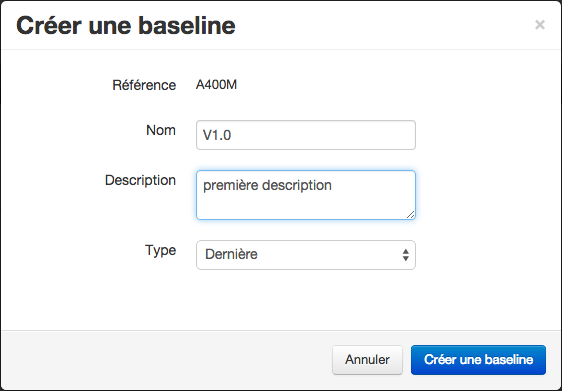
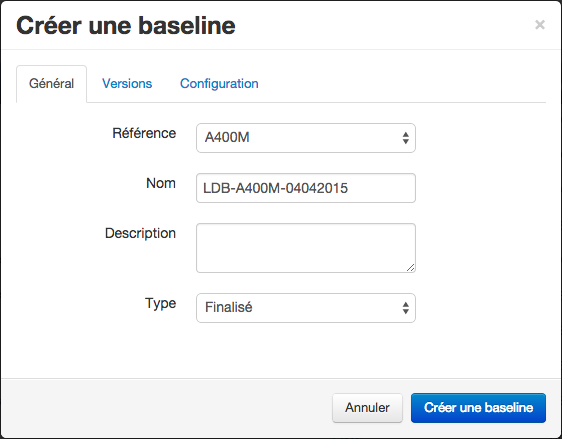
baseline creation

diff --git a/app/_i18n/fr/Documentation_dev.md b/app/_i18n/fr/Documentation_dev.md
@@ -398,10 +398,6 @@ Le numéro d’article est l’élément de tête de votre produit. Celui-ci peu
 
 Le produit créé sera rajouté à la liste des produits. En sélectionnant un produit dans la liste, les actions possibles sont sa suppression et la création d’une ligne de base.
 
-La création d’une ligne de base permet d’enregistrer à un instant donné une version du produit et donc de gérer différentes versions d’un même produit.
-
-{% image /assets/images/documentation/dev/fr/image02.png "Création d’une ligne de base"%}
-
 ##Explorateur produit
 
 La structure produit vous permet de localiser un article donné. Chaque noeud représente un assemblage d'articles, il suffit de l'étendre pour voir de quels articles il est composé. Un clic sur l'article affiche ses propriétés.
@@ -423,6 +419,23 @@ Parmi les actions possibles dans le mode de visualisation en 3D, vous retrouvere
 * La création de marqueurs permettant par exemple de rapporter un dysfonctionnement d’une pièce sur le schéma 3D
 * La création de calques comportant plusieurs marqueurs
 * L'export d'un article pour produire le code html à intégrer dans d’autres pages web (comme YouTube ou Google Maps)
+
+##Création d’une ligne de base
+
+La création d’une ligne de base (ou baseline) permet d’enregistrer à un instant donné une version du produit et donc de gérer différentes versions d’un même produit.
+
+{% image /assets/images/documentation/dev/fr/image02.png "Création d’une baseline"%}
+
+2 types de configuration sont proposés :
+
+* Derniers libérés, pour inclure les dernières itérations libérées de chaque article impliqué
+* Derniers finalisés, pour inclure automatiquement les dernières versions finalisées de chaque article impliqué. Si des articles existent en plusieurs versions, l'onglet Versions permet de sélectionner une version plus ancienne.
+
+{% image /assets/images/documentation/dev/baseline_versions.png "Choix de version"%}
+
+De plus, l'onglet Configuration permet de choisir entre un article ou une de ses variantes ou rien, si il est optionnel.
+
+{% image /assets/images/documentation/dev/fr/image58.png "Choix de configuration"%}
 
 #Gestion des processus
 

diff --git a/app/_i18n/en/Documentation_dev.md b/app/_i18n/en/Documentation_dev.md
@@ -377,10 +377,6 @@ The part number designates the root part of your product. It can be a simple par
 
 The new product will be added to the product list. Selecting an item from that list proposes two actions: deletion and baseline creation.
 
-Baselines are kinds of snapshots of the entire product structure at a given time so you can manage different versions of the same product.
-
-{% image /assets/images/documentation/dev/en/image40.png "Baseline creation form"%}
-
 ##Product explorer
 
 The product structure is displayed as a tree view where each node represents an assembly which is expandable. The node itself is clickable in order to display its main properties.
@@ -403,6 +399,23 @@ The possible actions in the 3D visualization mode are:
 * Creating markers to report a design issue for example
 * Creating layers that hold a set of markers
 * Export 3D visualization of a part. Produces the html code to embed in other web pages (like YouTube or Google Maps)
+
+##Baseline creation
+
+Baselines are kinds of snapshots of the entire product structure at a given time so you can manage different versions of the same product.
+
+{% image /assets/images/documentation/dev/en/image40.png "Baseline creation form"%}
+
+2 configuration types are offered :
+
+* Latest checked in, to include the last checked in iterations of each implicated part
+* Latest released, to include automatically the last released versions of each implicated part. If several versions exist for articles then the Versions tab gives you the opportunity to select an older version.
+
+{% image /assets/images/documentation/dev/baseline_versions.png "Version selection"%}
+
+Furthermore the Configuration tab offers you to choose between a part or one of its substitutes or even nothing, if the part is optional.
+
+{% image /assets/images/documentation/dev/en/image58.png "Configuration selection"%}
 
 #Workflow Management
 
